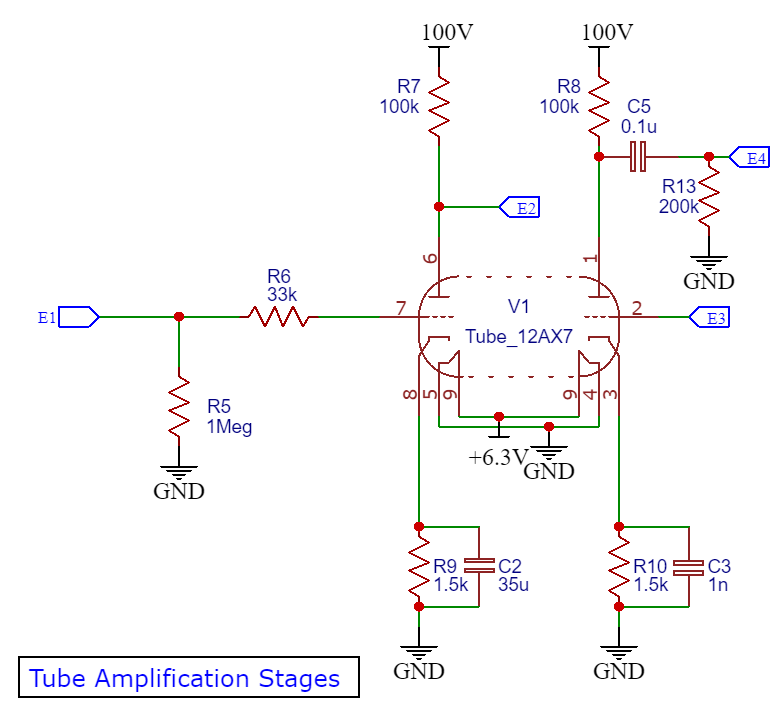
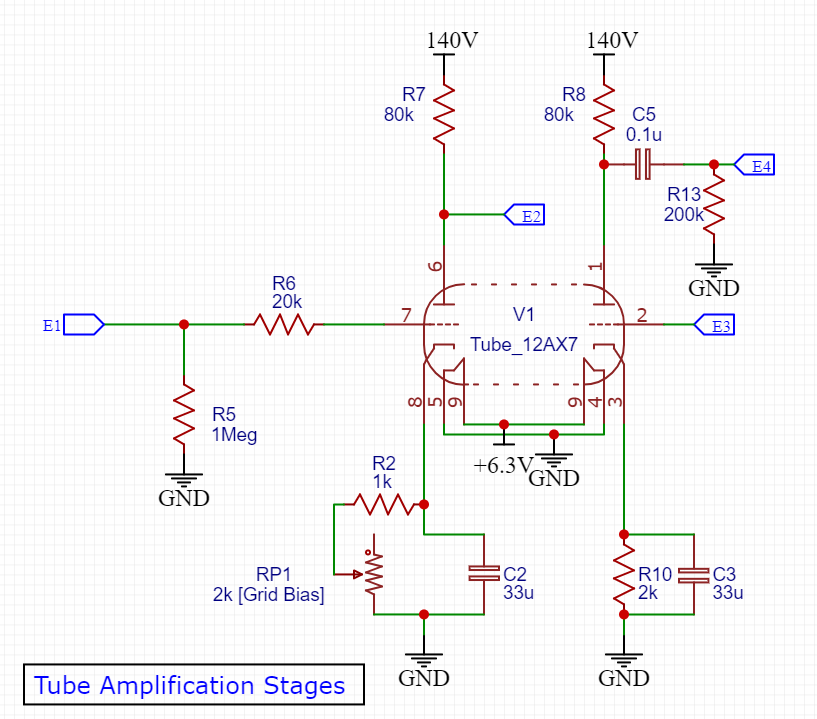
dgd

diff --git a/Documentation LaTeX/main.tex b/Documentation LaTeX/main.tex
@@ -419,8 +419,23 @@ We divide the schematic into 5 sections for convenience:
 \begin{center}\includegraphics[height=8cm]{class-a.png}\\\small{Figure 2: Class-A Tube Amplifier}\end{center}
 \tab Going in an orderly fashion from left to right: $R_{GB}$ must be a high resistance that makes the input impedance large ("Hi-Z") and sets the grid's DC point at $0V$. $R_G$ is used to damp oscillations higher than 20kHz. To explain this, we think about what happens once we amplify the AC small signal, the amplified output will cause miller effect making the parasitic capacitance $C_{GA}$ between grid and anode in the tube a large capacitance with which $R_G$ interacts to give a dominant pole in the system. $R_K$ is used to bias the Cathode and control the small signal gain. $R_A$ is used to bias the Anode. We'll discuss the exact calculation of these two resistances soon. $C_B$ is essentially a decoupling capacitor (In-fact, we'll benefit from having several different valued capacitors in parallel combination in-place of $C_B$).\\
 \begin{center}\includegraphics[height=9cm]{sch_tube.png}\\\small{Figure 3: Tube Amp Stage}\end{center}
-\tab As for calculating and arriving at the values used in the above schematic: note that the second stage is just the first stage without the input handling, hence we use the same values for both. From the above discussion, we may choose any large resistance and capacitance in place of $R_{GB}$ and $C_B$. $R_G$ too just needs to be not too large so that the $f_{-3dB}$ is still above 20kHz. To start with, we may just choose $R_{GB} = 1Meg$, $R_G = 20k$ and $C_B = 33\mu$. To calculate $R_A$ and $R_K$ we first look at the data-sheet of our 12AX7:
+\tab As for calculating and arriving at the values used in the above schematic: note that the second stage is just the first stage without the input handling, hence we use the same values for both. From the above discussion, we may choose any large resistance and capacitance in place of $R_{GB}$ and $C_B$. $R_G$ too just needs to be not too large so that the $f_{-3dB}$ is still above 20kHz. To start with, we may just choose $R_{GB} = 1Meg$, $R_G = 20k$ and $C_B = 33\mu$. To calculate $R_A$, $V_A$ and $R_K$, let us first look at the data-sheet of our 12AX7.\\
+\begin{center}
+    \includegraphics[width=0.9\textwidth]{Documentation LaTeX/12ax7.png}\\
+    \small{Figure 4: 12AX7 Characteristics}
+\end{center}\newpage
+\tab Let us begin with setting Plate Voltage (Anode - Cathode) = $100V$ because of being the safest value with concrete data to work with. Similarly the grid bias could be chosen to be $-1V$. To not restrict the possibilities of trying slightly different characteristics like the ones on the the first graph, we can add a potentiometer to control grid bias upto a variation of $\pm 0.5V$ while keeping all other calculations according to 1V. For the third constraint on our system of 3 parameters, we need to define small signal gain $A_v$. The small signal equation for the Tube Class-A Amplifier is:
+\[i_p = \left(-\frac{v_{\text{out}}}{R_A}\right) = g_m v_\text{in} + \left(-\frac{v_{\text{out}}}{r_p}\right)\]
+\[\implies A_v = g_m\left(R_A \ || \ r_p\right)\]
+\tab According to the first graph, for $100V$ DC plate voltage and $-1V$ DC grid voltage, we will have a plate current of $0.5mA$. Which implies that: \[R_A\left(\frac{0.5}{1000}\right) = V_A - 100\] And also implies that \[R_K\left(\frac{0.5}{1000}\right) = 1\]
+According to the second graph, we have $g_m = 1250 \cdot 10^{-6} \ \Omega^{-1}$ and $r_p = 80k\Omega$. \[A_v = 1.25\cdot(R_{\text{A in k}\Omega} \ || \ 80)\]
+Clearly, there is a trade-off between the maximum $A_v$ we can push for and the minimum $V_A$ we can bring down the make the pedal safer against human errors, but let us settle for the following:\\
+\[\boxed{R_A = 80k\Omega}\\\boxed{V_A = 140V}\\ \boxed{R_K = 2k\Omega}\]
+If we manage to get a $V_A$ that is not exactly $140V$, we can change $R_A$ accordingly. We can allow a trimpot setup to let $R_K=1k\Omega \text{ to } 3k\Omega$
 \subsection{Tone Control}
+\tab For tone control we aim to have one knob that takes the response form a bass-heavy to a high-presence. To achieve this with only passive elements, a decent amount of hit-and-miss was used by simulating different ideas and values in LTSpice. This was achieved:
+\begin{center}\includegraphics[width=\textwidth]{Documentation LaTeX/response.png}\\\small{Figure 4: Tone Control Response}\end{center}
+\begin{center}\includegraphics[width=0.7\textwidth]{Documentation LaTeX/sch_tone.png}\\\small{Figure 5: Schematic - Tone Control}\end{center}
 \subsection{Output Stage}
 \subsection{Power Regulation}
     \section{Investigation}
